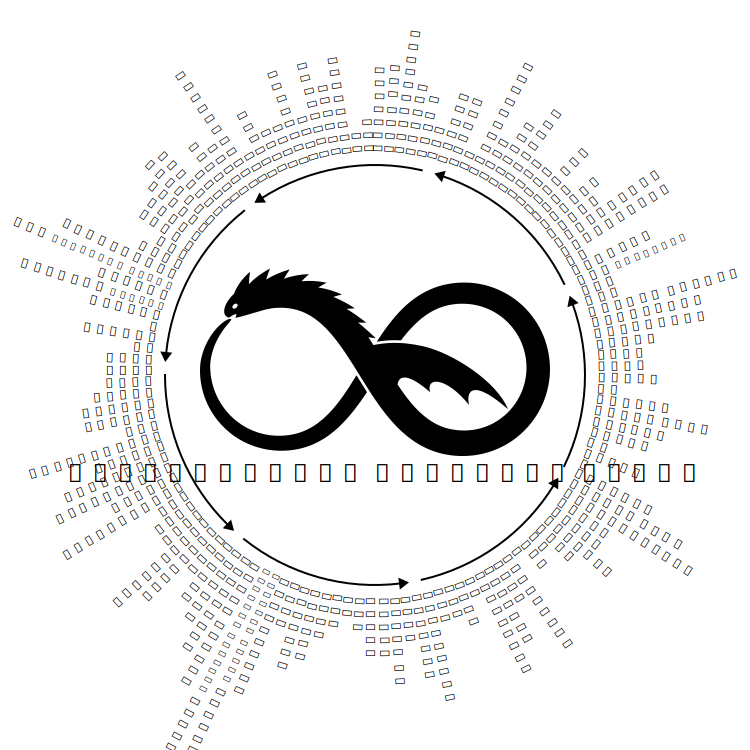
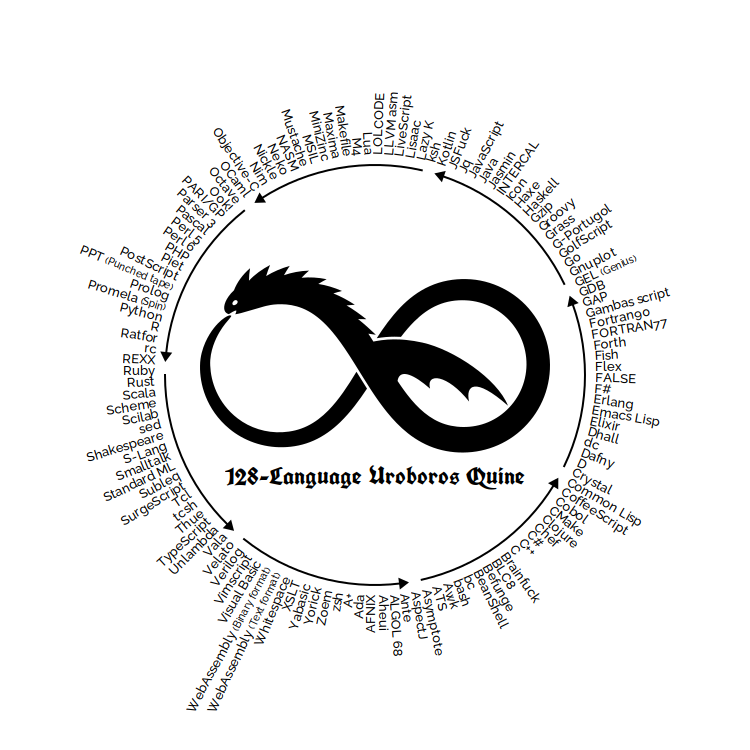
Fix the image
Fixes #141

diff --git a/src/langs.png.gen.rb b/src/langs.png.gen.rb
@@ -6,6 +6,12 @@ require "rsvg2"
 # * https://www.google.com/fonts/specimen/Raleway
 # * https://www.google.com/fonts/specimen/UnifrakturCook
 
+%w(Raleway UnifrakturCook).each do |font|
+  if `fc-list #{ font }`.strip.empty? && !ENV["SKIP_FONT_CHECK"]
+    raise "Font `#{ font }' is not available; to skip this check, set SKIP_FONT_CHECK=1"
+  end
+end
+
 W = H = 750
 surface = Cairo::ImageSurface.new(W, H)
 ctx = Cairo::Context.new(surface)
